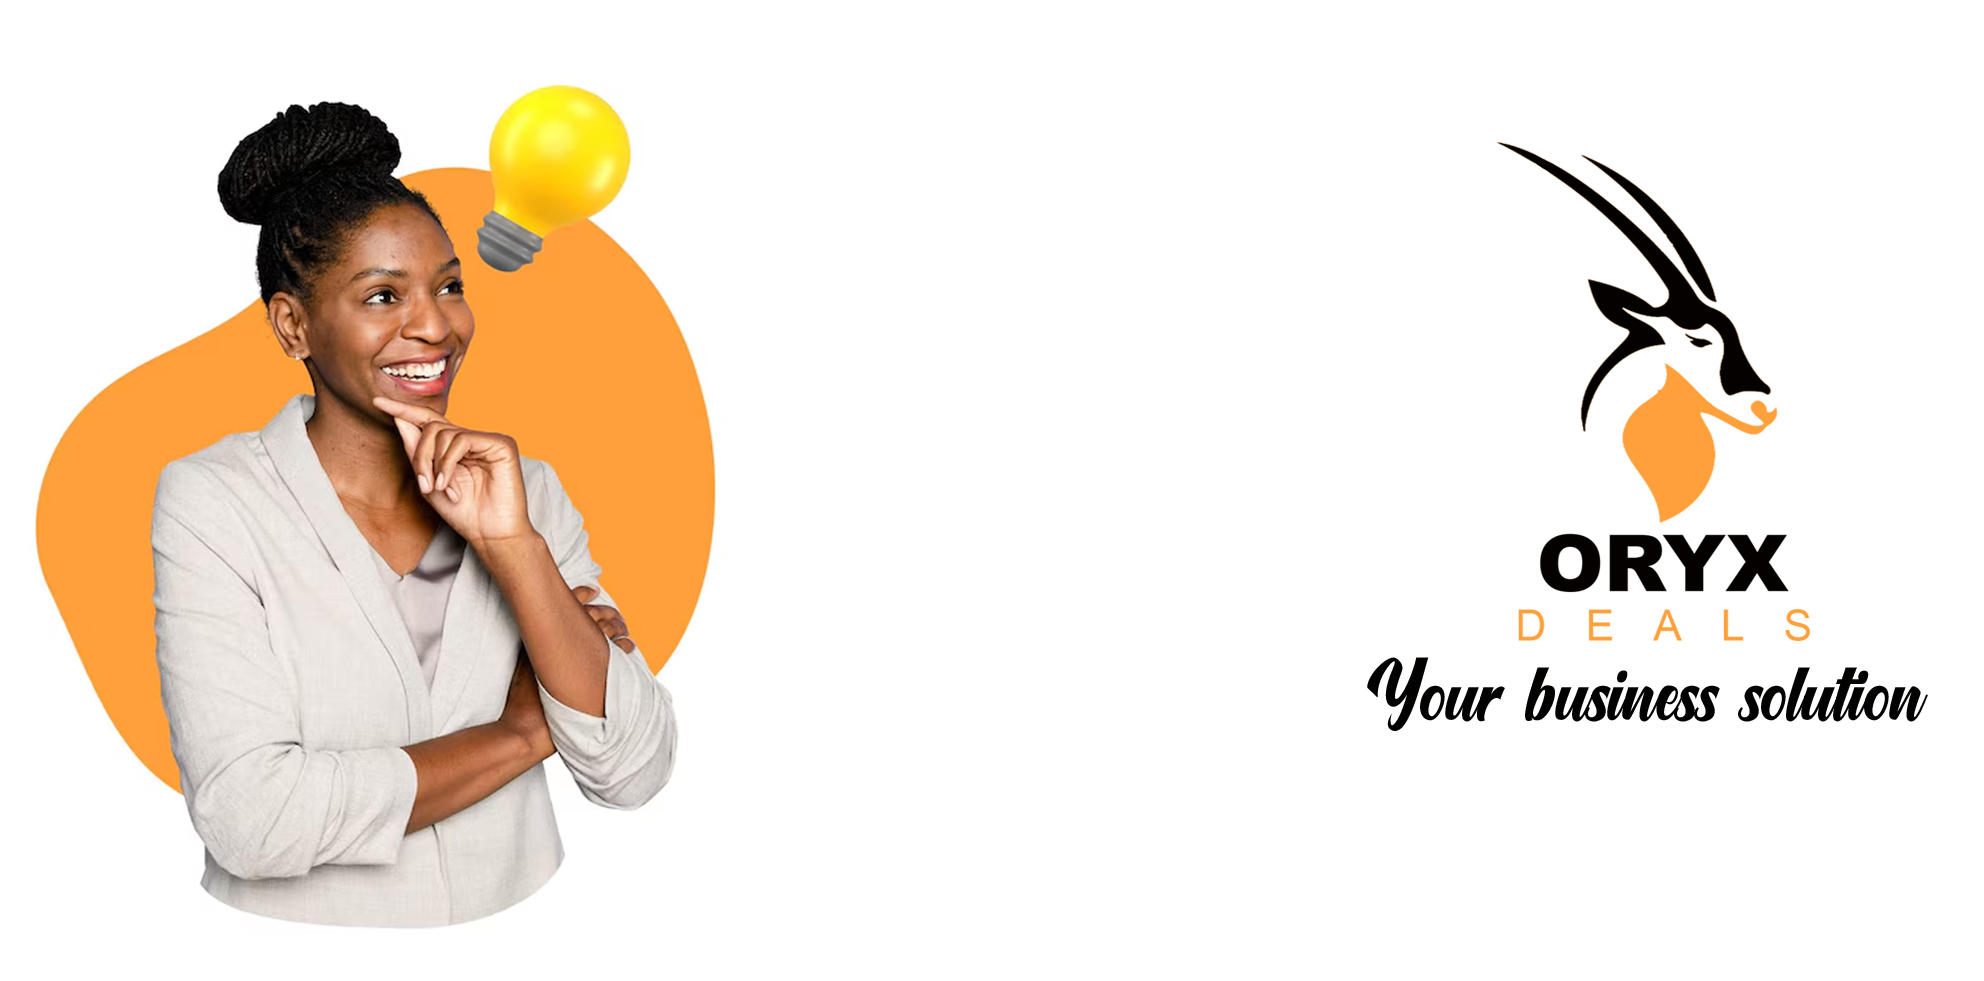
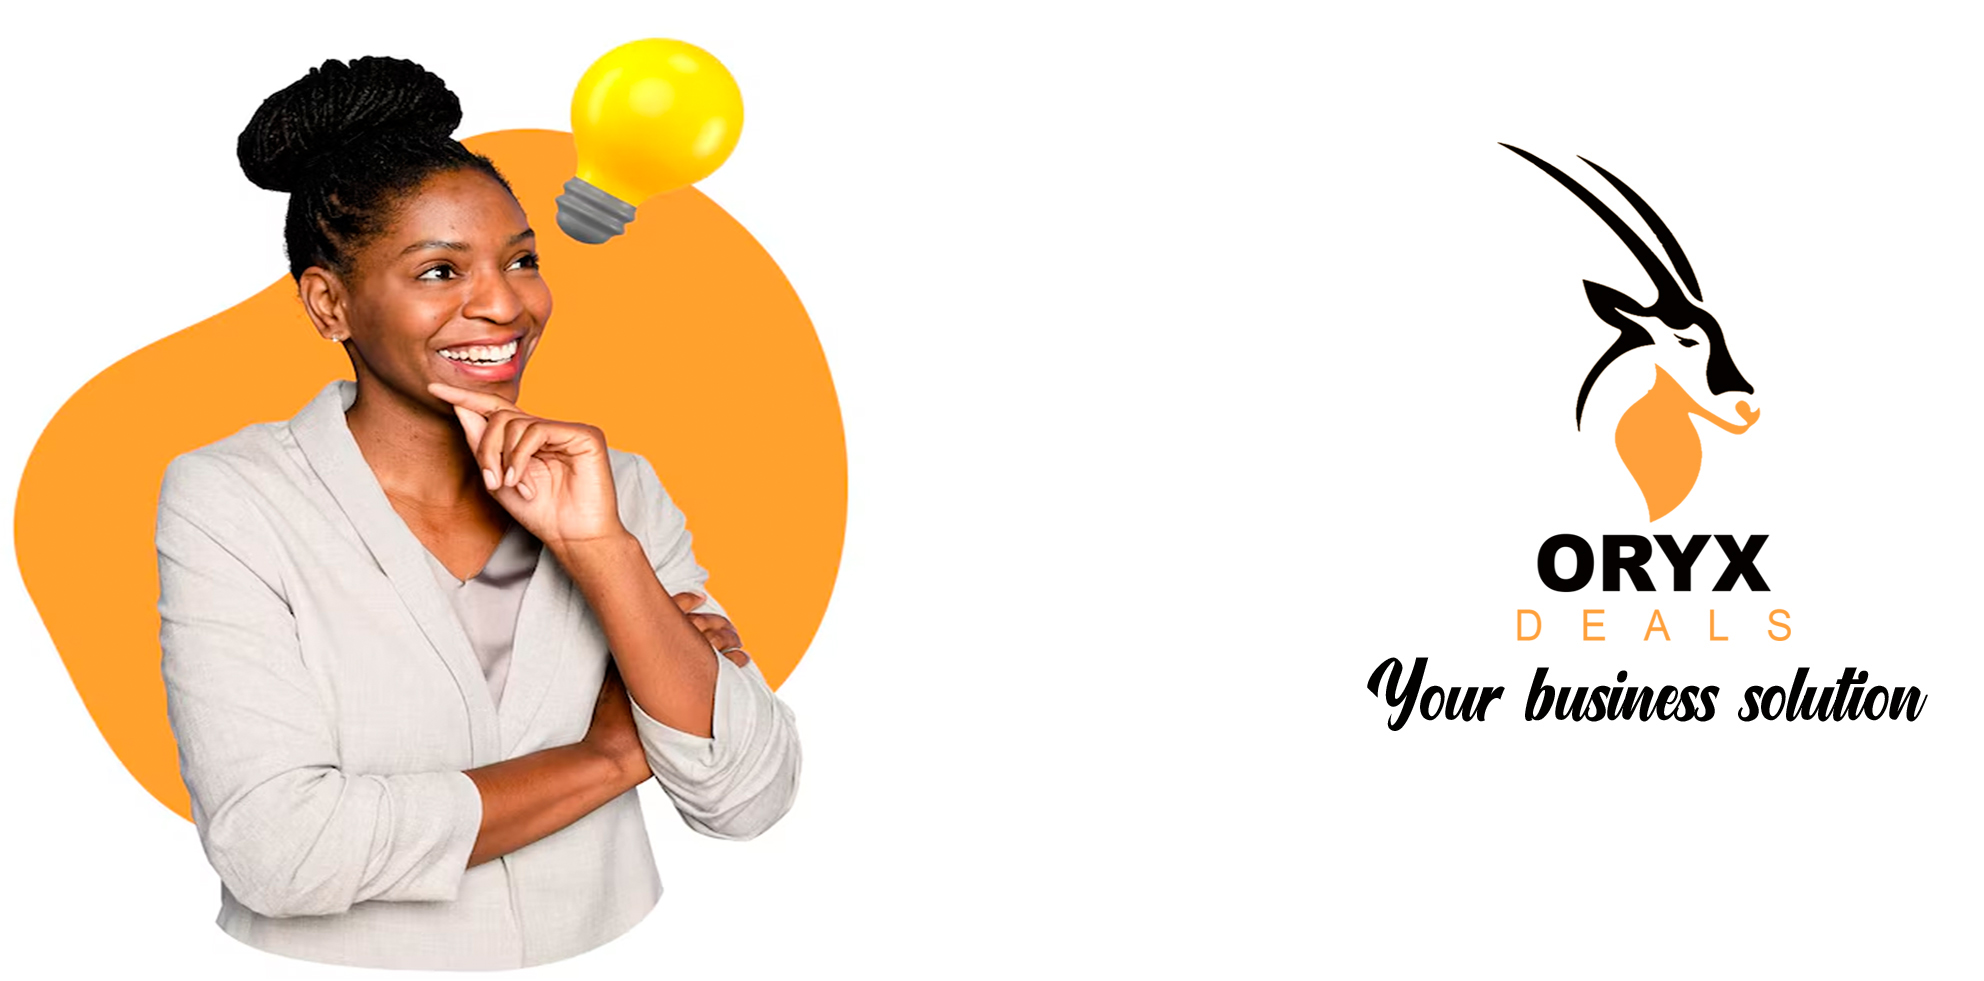
Updated

Changed region(s): [[0.0, 0.0306, 0.4375, 1.0], [0.75, 0.1529, 0.9062, 0.6728], [0.125, 0.581, 0.1562, 0.6422]]

diff --git a/chamber/join.html b/chamber/join.html
@@ -1,82 +1,74 @@
 <!DOCTYPE html>
 <html lang="en">
-<head>
-    <meta charset="UTF-8">
-    <meta name="viewport" content="width=device-width, initial-scale=1.0">
-    <meta name="description" content="Join the Chamber of Commerce Directory and connect with local businesses to boost your business.">
-    <meta name="author" content="Gleyson Douglas Sampaio Lopes">
-    <meta property="og:title" content="Find local businesses and their contact details on the Chamber website."/>
-    <meta property="og:type" content="website" />
-    <meta property="og:image" content="https://gleyson003.github.io/wdd231/chamber/images/gc_logo.png" />
-    <meta property="og:url" content="https://gleyson003.github.io/wdd231/chamber/directory.html" />
-    <link rel="icon" href="/chamber/images/gc_favicon.png">
-    <link rel="stylesheet" href="styles/directory_brief.css">
-    <link rel="stylesheet" href="styles/directory_middle.css">
-    <link rel="stylesheet" href="styles/directory_small.css">
-    <link rel="stylesheet" href="styles/directory_mobile.css">
-    <link rel="preconnect" href="https://fonts.googleapis.com">
-    <link rel="preconnect" href="https://fonts.gstatic.com" crossorigin>
-    <link href="https://fonts.googleapis.com/css2?family=Lato:ital,wght@0,100;0,300;0,400;0,700;0,900;1,100;1,300;1,400;1,700;1,900&family=Roboto:ital,wght@0,100;0,300;0,400;0,500;0,700;0,900;1,100;1,300;1,400;1,500;1,700;1,900&display=swap" rel="stylesheet">
-    <link rel="stylesheet" href="https://cdnjs.cloudflare.com/ajax/libs/font-awesome/6.0.0-beta3/css/all.min.css">
-    <script src="scripts/directory.js" defer></script>
-    <title>Great Chance</title>
-</head>
-<body>
-    <header>
-        <img class="titleImage" src="images/gc_logo.png" alt="My photo">
-        <h1>Great Chance</h1>
-        <h4>Chamber of Commerce</h4>
-        <!-- Botão hambúrguer -->
-        <button class="menu-toggle" id="menuToggle">☰</button>
-        <!-- Menu Sidebar -->
-        <nav id="menu" class="sidebar">
-            <img class="titleImage" src="images/gc_logo.png" alt="My photo">
-            <a href="index.html">Home</a>
-            <a href="discover.html">Discover</a>
-            <a href="directory.html">Business Directory</a>
-            <a href="join.html">Join</a>
-        </nav>
-    </header>
+    <head>
+        <meta charset="UTF-8">
+        <meta name="viewport" content="width=device-width, initial-scale=1.0">
+        <meta name="description"
+            content="Become part of the Chamber of Commerce Directory and build valuable connections with local businesses to help your business thrive.">
+        <meta name="author" content="Nasibu Saidi">
+        <meta property="og:title"
+            content="Explore local businesses and access their contact details on the Chamber of Commerce website." />
+        <meta property="og:type" content="website" />
+        <meta property="og:image" content="https://saidinasibu.github.io/wdd231/chamber/images/oryx_logo.png" />
+        <meta property="og:url" content="https://saidinasibu.github.io/wdd231/chamber/directory.html" />
+        <link rel="icon" href="/chamber/images/oryx_favicon.png">
+        <link rel="stylesheet" href="styles/directory_brief.css">
+        <link rel="stylesheet" href="styles/directory_middle.css">
+        <link rel="stylesheet" href="styles/directory_small.css">
+        <link rel="stylesheet" href="styles/directory_mobile.css">
+        <link rel="preconnect" href="https://fonts.googleapis.com">
+        <link rel="preconnect" href="https://fonts.gstatic.com" crossorigin>
+        <link
+            href="https://fonts.googleapis.com/css2?family=Lato:ital,wght@0,100;0,300;0,400;0,700;0,900;1,100;1,300;1,400;1,700;1,900&family=Roboto:ital,wght@0,100;0,300;0,400;0,500;0,700;0,900;1,100;1,300;1,400;1,500;1,700;1,900&display=swap"
+            rel="stylesheet">
+        <link rel="stylesheet" href="https://cdnjs.cloudflare.com/ajax/libs/font-awesome/6.0.0-beta3/css/all.min.css">
+        <script src="scripts/directory.js" defer></script>
+        <title>ORYX DEALS</title>
+    </head>
+    
+    <body>
+        <header>
+            <img class="titleImage" src="images/oryx_logo.png" alt="My LOGO">
+            <h1>ORYX DEALS</h1>
+            <h4>Chamber of Commerce</h4>
+            <button class="menu-toggle" id="menuToggle">☰</button>
+    
+            <nav id="menu" class="sidebar">
+                <img class="titleImage" src="images/oryx_logo.png" alt="My LOGO">
+                <a href="index.html">Home</a>
+                <a href="discover.html">Discover</a>
+                <a href="directory.html">Business Directory</a>
+                <a href="join.html">Join</a>
+            </nav>
+            </header>
     <main>
-        <h1>Formulário de Cadastro</h1>
+        <h1>Registration Form</h1>
         <form id="form" action="/send-data" method="get">
-            <!-- First name -->
             <label for="firstName">Name*:</label>
             <br>
             <input type="text" id="firstName" name="firstName" required>
             <br><br>
-            
-            <!-- Last name -->
             <label for="lastName">Last Name*:</label>
             <br>
             <input type="text" id="lastName" name="lastName" required>
             <br><br>
-            
-            <!-- Organizational Title -->
             <label for="applicantTitle">Organizational Title:</label>
             <br>
             <input type="text" id="applicantTitle" name="applicantTitle" list="titles" autocomplete="on">
             <br><br>
-
-            <!-- Email Address-->
             <label for="email">Email Address*:</label>
             <br>
             <input type="email" id="email" name="email"  placeholder="Ex: exemple@dominio.com" required>
             <br><br>
 
-            <!-- Phone-->
             <label for="phone">Phone*:</label>
             <br>
             <input type="tel" id="phone" name="phone" required>
             <br><br>
-            
-            <!-- Organization's Name -->
             <label for="business">Organization's Name*:</label>
             <br>
             <input type="text" id="business" name="business" required>
             <br><br><br>
-
-            <!-- Membership-->
             <fieldset>
                 <legend>Select Your Membership Level:</legend>
                 <label>
@@ -108,8 +100,6 @@
                 <br>
             </fieldset>
             <br><br>
-
-            <!-- Modal -->
             <dialog id="membership-modal">
                 <div class="modal-content">
                 <div id="card"></div>
@@ -120,14 +110,10 @@
                 </div>
                 <button id="close-modal">Close</button>
             </dialog>
-
-            <!-- Description -->
             <label for="description">Description*:</label>
             <br>
             <textarea id="description" name="description" required></textarea>
             <br><br>
-            
-            <!-- Botão de envio -->
             <button type="submit" id="sendForm">
                 Send
             </button>
@@ -136,33 +122,33 @@
     <footer>
         <div>
             <p>
-                <b>Great Chance</b><br>
-                177 Passagem Natalina<br>
-                Belém - Pará, Brazil 66645-502<br>
-                info@greatchance.org<br>
-                +55 91 98262-8735
+                <b>ORYX DEALS</b><br>
+                Erf: 3602, Abraham Mashego Street<br>
+                Luxury Hill, Katutura, Windhoek, Namibia<br>
+                info@oryxdeals.org<br>
+                +264 81 457 64 64
             </p>
         </div>
         <div class="social">
-            <a href="https://www.facebook.com/gleyson.douglaslopes.9/?locale=pt_BR" target="_blank">
-                <img src="images/youtube.png" alt="fb icon">
+            <a href="https://youtube.com/@bbminternational4199" target="_blank">
+                <img src="images/youtube.png" alt="youtube icon">
             </a>
-            <a href="https://twitter.com" target="_blank">
-                <img src="images/twitter.png" alt="twitter icon">
+            <a href="https://twitter.com/printonnamibia" target="_blank">
+                <img src="images/x.png" alt="x icon">
             </a>
-            <a href="https://www.linkedin.com/in/gleyson-lopes-7992a1176/" target="_blank">
-                <img src="images/linkedin.png" alt="instagram icon">
+            <a href="https://na.linkedin.com/in/davidnasibu" target="_blank">
+                <img src="images/linkedin.png" alt="linkedin icon">
             </a>
         </div>
         <div>
             <p>
-                WDD231 Class Project 
-                <br>Gleyson Douglas Sampaio Lopes
+                WDD231 Class Project
+                <br>Nasibu Saidi
                 <br>&copy; <span id="currentyear"></span>
-                Great Chance
+                ORYX DEALS
                 <br><span id="lastModified"></span>
             </p>
         </div>
     </footer>
-</body>
-</html>
+    </body>
+    </html>

diff --git a/chamber/thankyou.html b/chamber/thankyou.html
@@ -1,42 +1,46 @@
 <!DOCTYPE html>
 <html lang="en">
-<head>
-    <meta charset="UTF-8">
-    <meta name="viewport" content="width=device-width, initial-scale=1.0">
-    <meta name="description" content="Join the Chamber of Commerce Directory and connect with local businesses to boost your business.">
-    <meta name="author" content="Gleyson Douglas Sampaio Lopes">
-    <meta property="og:title" content="Find local businesses and their contact details on the Chamber website."/>
-    <meta property="og:type" content="website" />
-    <meta property="og:image" content="https://gleyson003.github.io/wdd231/chamber/images/gc_logo.png" />
-    <meta property="og:url" content="https://gleyson003.github.io/wdd231/chamber/directory.html" />
-    <link rel="icon" href="/chamber/images/gc_favicon.png">
-    <link rel="stylesheet" href="styles/directory_brief.css">
-    <link rel="stylesheet" href="styles/directory_middle.css">
-    <link rel="stylesheet" href="styles/directory_small.css">
-    <link rel="stylesheet" href="styles/directory_mobile.css">
-    <link rel="preconnect" href="https://fonts.googleapis.com">
-    <link rel="preconnect" href="https://fonts.gstatic.com" crossorigin>
-    <link href="https://fonts.googleapis.com/css2?family=Lato:ital,wght@0,100;0,300;0,400;0,700;0,900;1,100;1,300;1,400;1,700;1,900&family=Roboto:ital,wght@0,100;0,300;0,400;0,500;0,700;0,900;1,100;1,300;1,400;1,500;1,700;1,900&display=swap" rel="stylesheet">
-    <link rel="stylesheet" href="https://cdnjs.cloudflare.com/ajax/libs/font-awesome/6.0.0-beta3/css/all.min.css">
-    <script src="scripts/directory.js" defer></script>
-    <title>Great Chance</title>
-</head>
-<body>
-    <header>
-        <img class="titleImage" src="images/gc_logo.png" alt="My photo">
-        <h1>Great Chance</h1>
-        <h4>Chamber of Commerce</h4>
-        <!-- Botão hambúrguer -->
-        <button class="menu-toggle" id="menuToggle">☰</button>
-        <!-- Menu Sidebar -->
-        <nav id="menu" class="sidebar">
-            <img class="titleImage" src="images/gc_logo.png" alt="My photo">
-            <a href="index.html">Home</a>
-            <a href="discover.html">Discover</a>
-            <a href="directory.html">Business Directory</a>
-            <a href="join.html">Join</a>
-        </nav>
-    </header>
+    <head>
+        <meta charset="UTF-8">
+        <meta name="viewport" content="width=device-width, initial-scale=1.0">
+        <meta name="description"
+            content="Become part of the Chamber of Commerce Directory and build valuable connections with local businesses to help your business thrive.">
+        <meta name="author" content="Nasibu Saidi">
+        <meta property="og:title"
+            content="Explore local businesses and access their contact details on the Chamber of Commerce website." />
+        <meta property="og:type" content="website" />
+        <meta property="og:image" content="https://saidinasibu.github.io/wdd231/chamber/images/oryx_logo.png" />
+        <meta property="og:url" content="https://saidinasibu.github.io/wdd231/chamber/directory.html" />
+        <link rel="icon" href="/chamber/images/oryx_favicon.png">
+        <link rel="stylesheet" href="styles/directory_brief.css">
+        <link rel="stylesheet" href="styles/directory_middle.css">
+        <link rel="stylesheet" href="styles/directory_small.css">
+        <link rel="stylesheet" href="styles/directory_mobile.css">
+        <link rel="preconnect" href="https://fonts.googleapis.com">
+        <link rel="preconnect" href="https://fonts.gstatic.com" crossorigin>
+        <link
+            href="https://fonts.googleapis.com/css2?family=Lato:ital,wght@0,100;0,300;0,400;0,700;0,900;1,100;1,300;1,400;1,700;1,900&family=Roboto:ital,wght@0,100;0,300;0,400;0,500;0,700;0,900;1,100;1,300;1,400;1,500;1,700;1,900&display=swap"
+            rel="stylesheet">
+        <link rel="stylesheet" href="https://cdnjs.cloudflare.com/ajax/libs/font-awesome/6.0.0-beta3/css/all.min.css">
+        <script src="scripts/directory.js" defer></script>
+        <title>ORYX DEALS</title>
+    </head>
+    
+    <body>
+        <header>
+            <img class="titleImage" src="images/oryx_logo.png" alt="My LOGO">
+            <h1>ORYX DEALS</h1>
+            <h4>Chamber of Commerce</h4>
+            <button class="menu-toggle" id="menuToggle">☰</button>
+    
+            <nav id="menu" class="sidebar">
+                <img class="titleImage" src="images/oryx_logo.png" alt="My LOGO">
+                <a href="index.html">Home</a>
+                <a href="discover.html">Discover</a>
+                <a href="directory.html">Business Directory</a>
+                <a href="join.html">Join</a>
+            </nav>
+            </header>
     <main id="thanks">
         <h1>Thank you for your subscrition!</h1>
         <p id="formData"></p>
@@ -50,33 +54,33 @@
     <footer>
         <div>
             <p>
-                <b>Great Chance</b><br>
-                177 Passagem Natalina<br>
-                Belém - Pará, Brazil 66645-502<br>
-                info@greatchance.org<br>
-                +55 91 98262-8735
+                <b>ORYX DEALS</b><br>
+                Erf: 3602, Abraham Mashego Street<br>
+                Luxury Hill, Katutura, Windhoek, Namibia<br>
+                info@oryxdeals.org<br>
+                +264 81 457 64 64
             </p>
         </div>
         <div class="social">
-            <a href="https://www.facebook.com/gleyson.douglaslopes.9/?locale=pt_BR" target="_blank">
-                <img src="images/youtube.png" alt="fb icon">
+            <a href="https://youtube.com/@bbminternational4199" target="_blank">
+                <img src="images/youtube.png" alt="youtube icon">
             </a>
-            <a href="https://twitter.com" target="_blank">
-                <img src="images/twitter.png" alt="twitter icon">
+            <a href="https://twitter.com/printonnamibia" target="_blank">
+                <img src="images/x.png" alt="x icon">
             </a>
-            <a href="https://www.linkedin.com/in/gleyson-lopes-7992a1176/" target="_blank">
-                <img src="images/linkedin.png" alt="instagram icon">
+            <a href="https://na.linkedin.com/in/davidnasibu" target="_blank">
+                <img src="images/linkedin.png" alt="linkedin icon">
             </a>
         </div>
         <div>
             <p>
-                WDD231 Class Project 
-                <br>Gleyson Douglas Sampaio Lopes
+                WDD231 Class Project
+                <br>Nasibu Saidi
                 <br>&copy; <span id="currentyear"></span>
-                Great Chance
+                ORYX DEALS
                 <br><span id="lastModified"></span>
             </p>
         </div>
     </footer>
-</body>
-</html>
+    </body>
+    </html>

diff --git a/chamber/styles/directory_brief.css b/chamber/styles/directory_brief.css
@@ -1,5 +1,5 @@
 :root {
-    --primary-color: #17e0d6e7;
+    --primary-color: #ffa22d;
     --secondary-color: #bed;
     --font-family-text: 'Lato', sans-serif;
 }
@@ -216,7 +216,7 @@ article img {
 .hero{
     display: flex;
     margin: -8px auto;
-    width: 75%;
+    width: 77%;
     height: 550px;
     z-index: 1;
 }
@@ -225,7 +225,7 @@ article img {
     z-index: 2;
     position: absolute;
     bottom: 50px;
-    right: 30px;
+    right: 220px;
     padding: 10px;
     width: 200px;
     font-size: 20px;
@@ -281,7 +281,7 @@ article img {
     display: flex;
     margin: 40px 0 20px 2vw;
     width: 20%;
-    background-color: aqua;
+    background-color: #ffa22d;
     border-radius: 70px;
 }
 
@@ -339,7 +339,7 @@ article img {
 }
 
 .sportlight-website:hover {
-    background-color: aqua;
+    background-color: #ffa22d;
     color: black;
     border: 2px solid black;
     text-decoration: none;  

diff --git a/chamber/index.html b/chamber/index.html
@@ -27,6 +27,7 @@
         <h1>ORYX DEALS</h1>
         <h4>Chamber of Commerce</h4>
         <button class="menu-toggle" id="menuToggle">☰</button>
+
         <nav id="menu" class="sidebar">
             <img class="titleImage" src="images/oryx_logo.png" alt="My LOGO">
             <a href="index.html">Home</a>
@@ -38,7 +39,8 @@
     <main id="home_page">
         <div class="positionHero">
             <img class="hero" src="images/hero_image.jpg" alt="A man think about great opportunities.">
-            <button class="join">Join us</button>
+            <button class="join" onclick="window.location.href='join.html'">Join us</button>
+
         </div>
         <h1>Home</h1>
         <div class="grid-weather">
